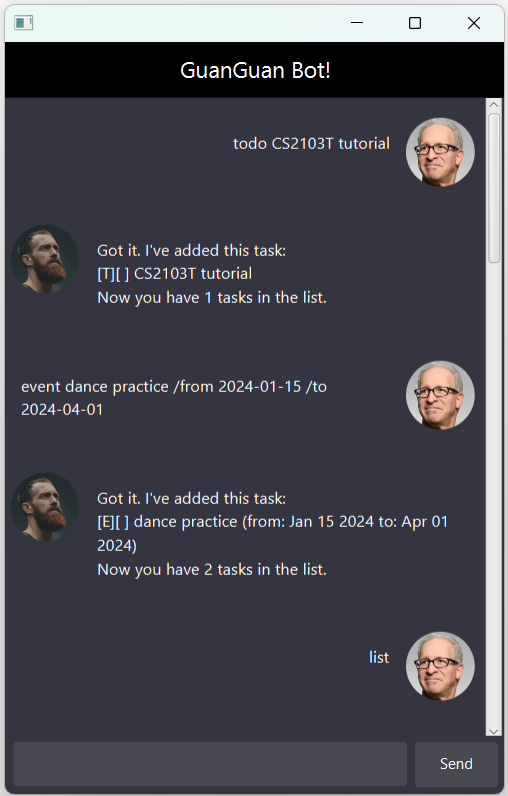
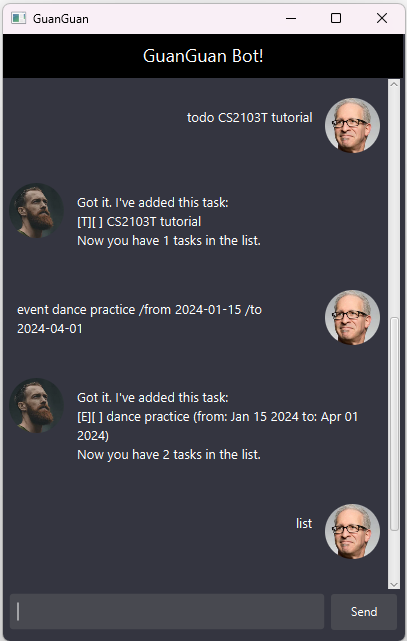
Edit homepage readme, update Ui.png, change output task filename

diff --git a/src/main/java/guanguan/Main.java b/src/main/java/guanguan/Main.java
@@ -16,7 +16,7 @@ public class Main extends Application {
     private final GuanGuan guanguan;
 
     public Main() throws GgException {
-        this.guanguan = new GuanGuan("data/test.txt", new Gui());
+        this.guanguan = new GuanGuan("data/tasks.txt", new Gui());
     }
 
     @Override

diff --git a/src/main/java/guanguan/GuanGuan.java b/src/main/java/guanguan/GuanGuan.java
@@ -58,7 +58,7 @@ public class GuanGuan {
     }
 
     public static void main(String[] args) throws GgException {
-        new GuanGuan("data/test.txt").run();
+        new GuanGuan("data/tasks.txt").run();
     }
 
     /**

diff --git a/README.md b/README.md
@@ -1,24 +1,155 @@
-# guanguan.GuanGuan project template
+# GuanGuan
 
-This is a project template for a greenfield Java project. It's named after the Java mascot _Duke_. Given below are instructions on how to use it.
+![Screenshot of GuanGuan Bot.](docs/Ui.png)
 
-## Setting up in Intellij
+GuanGuan is designed for efficient task management to streamline your daily tasks and enhance productivity.
 
-Prerequisites: JDK 11, update Intellij to the most recent version.
+# Features:
+- Words in UPPER_CASE are the parameters to be supplied by the user.
+- Input `DATE` format should be `YYYY-MM-DD`.
+- Example, in `deadline DESCRIPTION /by DATE`, `DESCRIPTION` and `DATE` are parameters which can be used as `deadline complete CS2103T tutorial /by 2024-05-05`.
+- Parameters can be in any order.
 
-1. Open Intellij (if you are not in the welcome screen, click `File` > `Close Project` to close the existing project first)
-1. Open the project into Intellij as follows:
-   1. Click `Open`.
-   1. Select the project directory, and click `OK`.
-   1. If there are any further prompts, accept the defaults.
-1. Configure the project to use **JDK 11** (not other versions) as explained in [here](https://www.jetbrains.com/help/idea/sdk.html#set-up-jdk).<br>
-   In the same dialog, set the **Project language level** field to the `SDK default` option.
-3. After that, locate the `src/main/java/guanguan.GuanGuan.java` file, right-click it, and choose `Run guanguan.GuanGuan.main()` (if the code editor is showing compile errors, try restarting the IDE). If the setup is correct, you should see something like the below as the output:
-   ```
-   Hello from
-    ____        _        
-   |  _ \ _   _| | _____ 
-   | | | | | | | |/ / _ \
-   | |_| | |_| |   <  __/
-   |____/ \__,_|_|\_\___|
-   ```
+## List tasks: `list`
+List all tasks in the task list.
+
+Format: `list`
+
+Output:
+```
+Here are the tasks in your list:
+1. [T][] complete CS2103T tutorial
+2. [D][] dance practice (by: May 05 2024)
+```
+
+## Add todo: `todo`
+Add a todo task to the task list.
+
+Format: `todo DESCRIPTION`
+
+Examples:
+- `todo complete CS2103T tutorial`
+
+Output:
+```
+Got it. I've added this task:
+[T][] complete CS2103T tutorial
+Now you have 1 tasks in the list.
+```
+
+## Add deadline: `deadline`
+Add a deadline task to the task list.
+
+Format: `deadline DESCRIPTION /by DATE`
+
+Examples:
+- `deadline complete CS2103T tutorial /by 2024-05-05`
+
+Output:
+```
+Got it. I've added this task:
+[D][] complete CS2103T tutorial (by: May 05 2024)
+Now you have 1 tasks in the list.
+```
+
+## Add event: `event`
+Add an event task to the task list.
+
+Format: `event DESCRIPTION /from DATE /to DATE`
+
+Examples:
+- `event complete CS2103T tutorial /from 2024-05-05 /to 2024-05-15`
+
+Output:
+```
+Got it. I've added this task:
+[E][] complete CS2103T tutorial (from: May 05 2024 to: May 15 2024)
+Now you have 1 tasks in the list.
+```
+
+## Mark task: `mark`
+Mark task as done.
+
+Format: `mark INDEX`
+
+Examples:
+- `mark 1`
+
+Output:
+```
+Nice! I've marked this task as done:
+[T][X] complete CS2103T tutorial
+```
+
+## Unmark task: `unmark`
+Mark task as undone.
+
+Format: `unmark INDEX`
+
+Examples:
+- `unmark 1`
+
+Output:
+```
+OK, I've marked this task as not done yet:
+[T][] complete CS2103T tutorial
+```
+
+## Delete task: `delete`
+Delete task from the task list.
+
+Format: `delete INDEX`
+
+Examples:
+- `delete 1`
+
+Output:
+```
+Noted. I've removed this task:
+[T][] complete CS2103T tutorial
+Now you have 0 tasks in the list.
+```
+
+## Find task: `find`
+Find tasks that contain the keyword.
+
+Format: `find KEYWORD`
+
+Examples:
+- `find tut`
+
+Output:
+```
+Here are the tasks in your list:
+1. [T][] complete CS2103T tutorial
+```
+
+## Exit: `bye`
+Exit the program.
+
+Format: `bye`
+
+Output:
+```
+Bye. Hope to see you again soon!
+```
+
+## Saving the data
+Data are saved in the hard disk automatically after any command that changes the data. There is no need to save manually.
+
+## Editing the data file
+Data are saved automatically as a text file [JAR file location]/data/tasks.txt. Advanced users are welcome to update data directly by editing that data file.
+
+## Command Summary
+
+| Action       | Format                                  |
+|--------------|-----------------------------------------|
+| Add Todo     | `todo DESCRIPTION`                      |
+| Add Deadline | `deadline DESCRIPTION /by DATE`         |
+| Add Event    | `event DESCRIPTION /from DATE /to DATE` |
+| List         | `list`                                  |
+| Mark         | `mark INDEX`                            |
+| Unmark       | `unmark INDEX`                          |
+| Delete       | `delete INDEX`                          |
+| Find         | `find KEYWORD`                          |
+| Exit         | `bye`                                   |

diff --git a/docs/README.md b/docs/README.md
@@ -138,7 +138,7 @@ Bye. Hope to see you again soon!
 Data are saved in the hard disk automatically after any command that changes the data. There is no need to save manually.
 
 ## Editing the data file
-Data are saved automatically as a text file [JAR file location]/data/test.txt. Advanced users are welcome to update data directly by editing that data file.
+Data are saved automatically as a text file [JAR file location]/data/tasks.txt. Advanced users are welcome to update data directly by editing that data file.
 
 ## Command Summary
 
